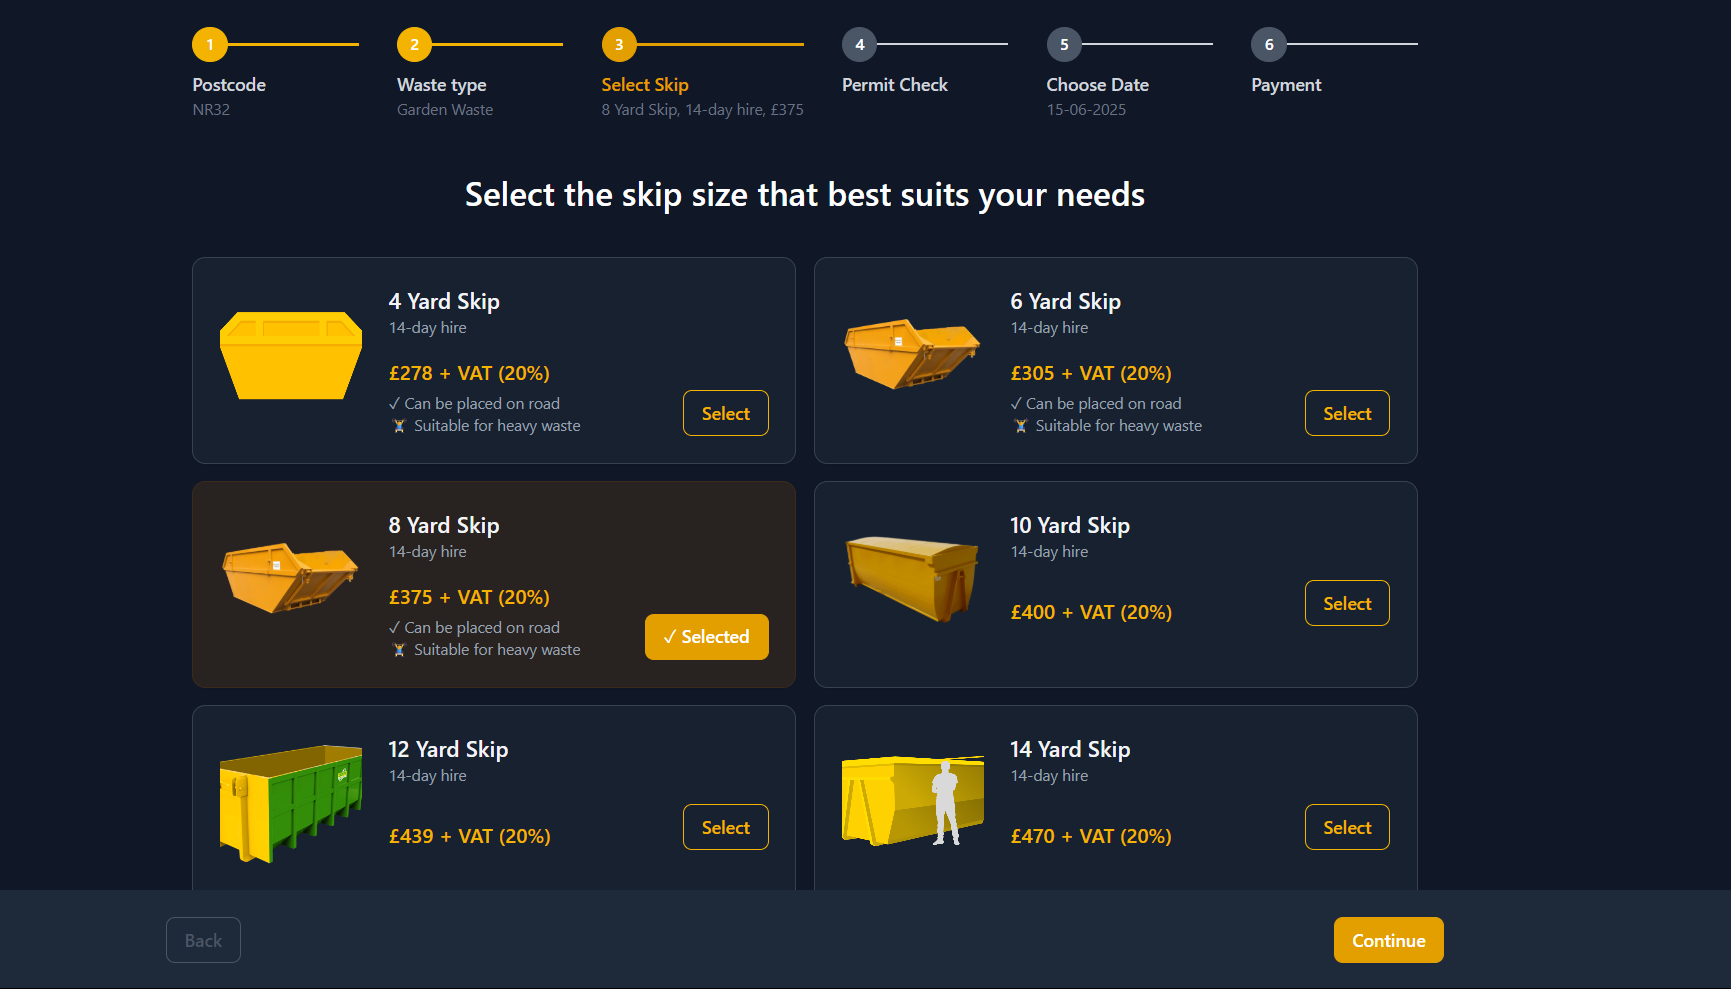
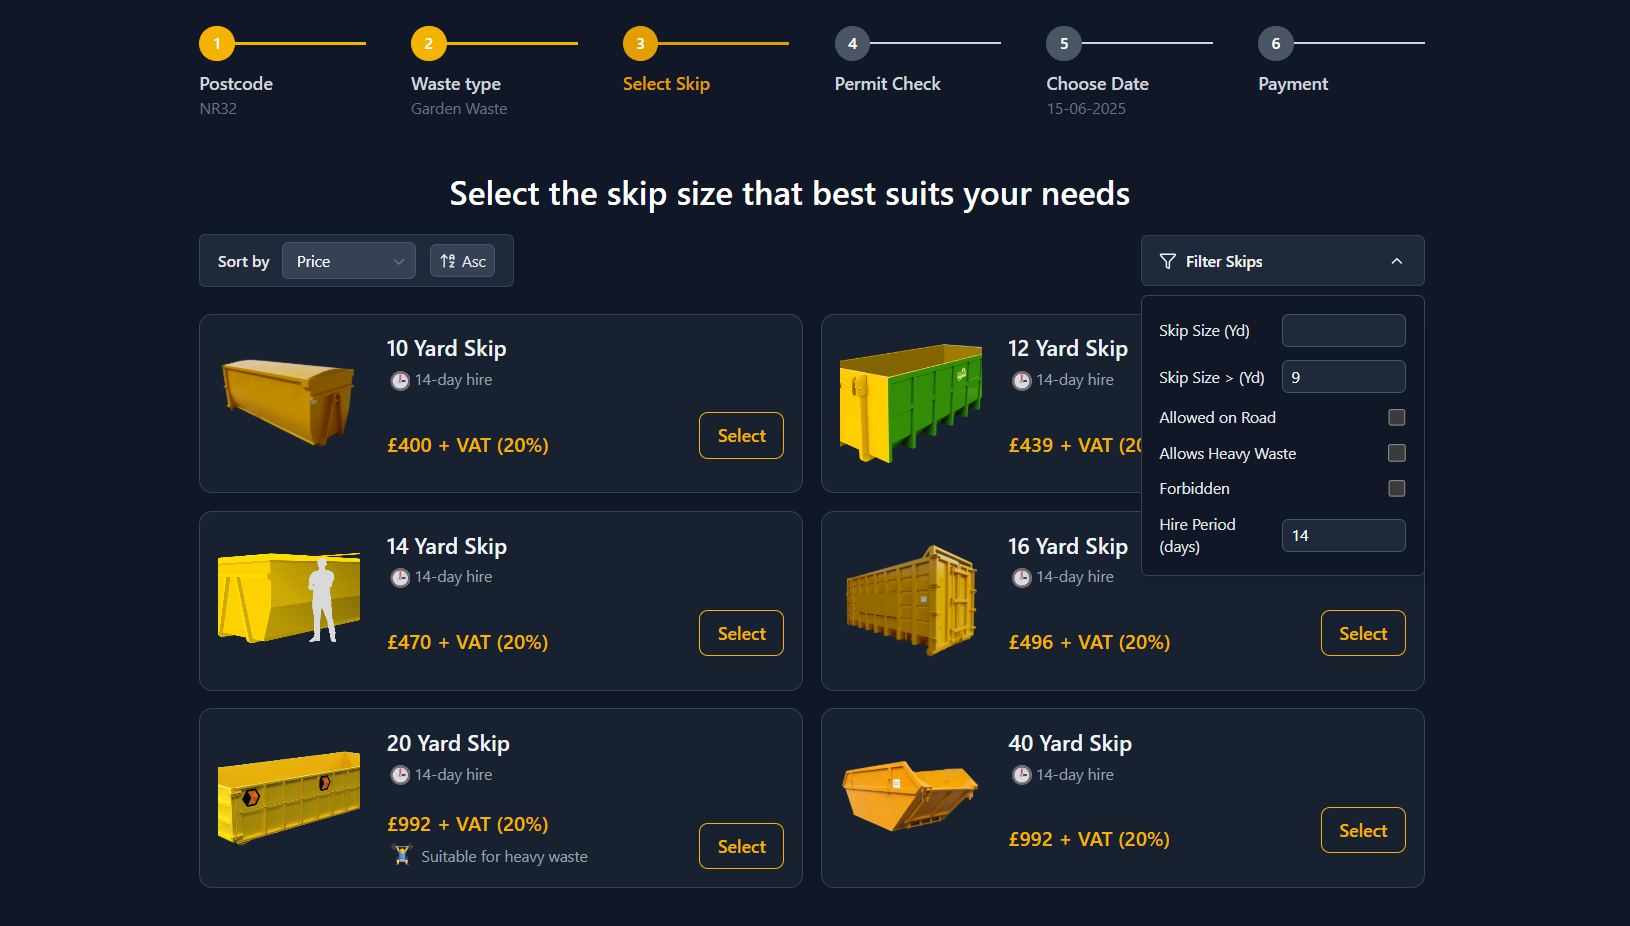
Added: filtering feature

diff --git a/src/components/FilterSkips.jsx b/src/components/FilterSkips.jsx
@@ -1,0 +1,212 @@
+import { useState, useEffect, useRef } from "react";
+import { ChevronDown, ArrowUpAZ, ArrowDownZA, Filter } from "lucide-react";
+
+const filterFields = [
+  { id: "size", label: "Skip Size (Yd)", type: "number" },
+  { id: "size_gt", label: "Skip Size > (Yd)", type: "number" },
+  { id: "allowed_on_road", label: "Allowed on Road", type: "boolean" },
+  { id: "allows_heavy_waste", label: "Allows Heavy Waste", type: "boolean" },
+  { id: "forbidden", label: "Forbidden", type: "boolean" },
+  { id: "hire_period_days", label: "Hire Period (days)", type: "number" },
+];
+
+const sortFields = [
+  { id: "price_before_vat", label: "Price" },
+  { id: "size", label: "Size" },
+  { id: "hire_period_days", label: "Hire Period" },
+];
+
+export default function FilterSkips({
+  onFilterChange,
+  skips,
+  setFilteredSkips,
+}) {
+  const [open, setOpen] = useState(false);
+  const [filters, setFilters] = useState({});
+  const [sortBy, setSortBy] = useState("");
+  const [sortOrder, setSortOrder] = useState("asc");
+  const dropdownRef = useRef(null);
+
+  const toggleBooleanFilter = (id) => {
+    setFilters((prev) => {
+      const newFilters = { ...prev };
+      if (id in newFilters) {
+        delete newFilters[id];
+      } else {
+        newFilters[id] = true;
+      }
+      return newFilters;
+    });
+  };
+
+  const updateFilterValue = (id, value) => {
+    setFilters((prev) => ({
+      ...prev,
+      [id]: value,
+    }));
+  };
+
+  const getFilterSummary = () => {
+    const entries = Object.entries(filters).filter(
+      ([_, v]) => v !== "" && v !== null
+    );
+    if (entries.length === 0) return "";
+    return entries
+      .map(([key, value]) => {
+        if (typeof value === "boolean") return key;
+        return `${key}: ${value}`;
+      })
+      .join(", ");
+  };
+
+  useEffect(() => {
+    const handleClickOutside = (event) => {
+      if (dropdownRef.current && !dropdownRef.current.contains(event.target)) {
+        setOpen(false);
+      }
+    };
+    document.addEventListener("mousedown", handleClickOutside);
+    return () => document.removeEventListener("mousedown", handleClickOutside);
+  }, []);
+
+  useEffect(() => {
+    let filtered = skips.filter((skip) => {
+      return Object.entries(filters).every(([key, value]) => {
+        if (value === "" || value === undefined) return true;
+
+        if (key === "size_gt") return skip["size"] > value;
+        if (typeof value === "boolean") return skip[key] === true;
+
+        return skip[key] === value;
+      });
+    });
+
+    if (sortBy) {
+      filtered = [...filtered].sort((a, b) => {
+        if (sortOrder === "asc") return a[sortBy] - b[sortBy];
+        return b[sortBy] - a[sortBy];
+      });
+    }
+
+    setFilteredSkips(filtered);
+    if (onFilterChange) {
+      onFilterChange(filters);
+    }
+  }, [filters, sortBy, sortOrder, skips]);
+
+  return (
+    <div className="w-full flex justify-between items-center gap-4">
+      {/* SORT */}
+      <div className="flex items-center gap-3 bg-white dark:bg-gray-800 px-2 md:px-4 py-1.5 rounded-md border border-gray-300 dark:border-gray-700 shadow-sm">
+        <label className="text-sm hidden md:block font-semibold text-gray-700 dark:text-gray-200 whitespace-nowrap">
+          Sort by
+        </label>
+
+        <div className="relative">
+          <select
+            value={sortBy}
+            onChange={(e) => setSortBy(e.target.value)}
+            className="appearance-none text-sm pl-3 pr-8 py-1.5 cursor-pointer rounded-md border border-gray-300 dark:border-gray-600 bg-white dark:bg-gray-700 text-gray-900 dark:text-white focus:outline-none"
+          >
+            <option value="" className="block md:hidden">
+              -- Sort by --
+            </option>
+            <option value="" className="hidden md:block">
+              -- Select --
+            </option>
+            {sortFields.map((field) => (
+              <option key={field.id} value={field.id}>
+                {field.label}
+              </option>
+            ))}
+          </select>
+          <ChevronDown className="absolute right-2 top-2.5 h-4 w-4 text-gray-500 pointer-events-none" />
+        </div>
+
+        {sortBy && (
+          <button
+            onClick={() =>
+              setSortOrder((prev) => (prev === "asc" ? "desc" : "asc"))
+            }
+            className="flex items-center gap-1 px-2 py-1 text-sm border cursor-pointer border-gray-300 dark:border-gray-600 rounded-md bg-gray-100 dark:bg-gray-700 text-gray-800 dark:text-gray-200 hover:bg-gray-200 dark:hover:bg-gray-600 transition"
+            title={`Sort ${sortOrder === "asc" ? "Descending" : "Ascending"}`}
+          >
+            {sortOrder === "asc" ? (
+              <>
+                <ArrowUpAZ className="w-4 h-4" />
+                <span>Asc</span>
+              </>
+            ) : (
+              <>
+                <ArrowDownZA className="w-4 h-4" />
+                <span>Desc</span>
+              </>
+            )}
+          </button>
+        )}
+      </div>
+
+      {/* FILTER */}
+      <div
+        ref={dropdownRef}
+        className="relative inline-block w-full md:max-w-64 text-left"
+      >
+        <button
+          onClick={() => setOpen(!open)}
+          className="w-full flex items-center justify-between px-4 py-3 cursor-pointer bg-white dark:bg-gray-800 border border-gray-300 dark:border-gray-700 rounded-md shadow-sm text-sm font-medium text-gray-900 dark:text-gray-100 hover:bg-gray-100 dark:hover:bg-gray-700 transition"
+        >
+          <span className="flex items-center gap-2 truncate">
+            <Filter className="w-4 h-4" />
+            {"Filter Skips"}
+          </span>
+          <ChevronDown
+            className={`h-4 w-4 ml-2 transition-transform ${
+              open ? "rotate-180" : ""
+            }`}
+          />
+        </button>
+
+        {open && (
+          <div
+            className="absolute z-10 mt-2 min-w-[16rem] max-w-full right-0 bg-white dark:bg-gray-900 border border-gray-300 dark:border-gray-700 rounded-md shadow-lg p-4 space-y-3 text-sm"
+            style={{ transformOrigin: "top right" }}
+          >
+            {filterFields.map((field) => (
+              <div
+                key={field.id}
+                className="flex justify-between items-center gap-3"
+              >
+                <label className="flex-1 text-gray-700 dark:text-gray-200">
+                  {field.label}
+                </label>
+
+                {field.type === "boolean" ? (
+                  <input
+                    type="checkbox"
+                    checked={filters[field.id] === true}
+                    onChange={() => toggleBooleanFilter(field.id)}
+                    className="w-4 h-4 text-primary-600 dark:text-primary-400 accent-primary-500 cursor-pointer"
+                  />
+                ) : (
+                  <input
+                    type={field.type}
+                    value={filters[field.id] || ""}
+                    onChange={(e) =>
+                      updateFilterValue(
+                        field.id,
+                        field.type === "number"
+                          ? parseFloat(e.target.value) || ""
+                          : e.target.value
+                      )
+                    }
+                    className="w-28 px-2 py-1 border border-gray-300 dark:border-gray-600 rounded-md bg-white dark:bg-gray-800 text-gray-900 dark:text-white focus:outline-none"
+                  />
+                )}
+              </div>
+            ))}
+          </div>
+        )}
+      </div>
+    </div>
+  );
+}

diff --git a/src/screens/SelectSkip.jsx b/src/screens/SelectSkip.jsx
@@ -3,10 +3,12 @@ import SkipCard from "../components/SkipCard";
 import Button from "../components/Button";
 import clsx from "clsx";
 import SkipCardSkeleton from "../components/skeletons/SkeletonCard";
+import FilterSkips from "../components/FilterSkips";
 
 export default function SelectSkip({ activeTab, handleTabData }) {
   const [selected, setSelected] = useState(activeTab?.data?.id ?? null);
   const [skips, setSkips] = useState([]);
+  const [filteredSkips, setFilteredSkips] = useState([]);
   const [isLoading, setIsloading] = useState(false);
 
   useEffect(() => {
@@ -29,6 +31,7 @@ export default function SelectSkip({ activeTab, handleTabData }) {
         }
 
         setSkips(data);
+        setFilteredSkips([...data]);
       } catch (error) {
         console.error("Error fetching skips by location:", error);
       } finally {
@@ -41,18 +44,18 @@ export default function SelectSkip({ activeTab, handleTabData }) {
 
   return (
     <>
-      <div className="w-full felx flex-col items-center mb-6">
-        <h1 className="text-3xl font-semibold text-center text-gray-900 dark:text-white mb-4">
+      <div className="w-full flex flex-col space-y-5 justify-between items-center mb-6 md:space-x-10">
+        <h1 className="text-2xl md:text-3xl font-semibold text-center text-gray-900 dark:text-white">
           Select the skip size that best suits your needs
         </h1>
 
-        <p className="text-center"></p>
+        <FilterSkips skips={skips} setFilteredSkips={setFilteredSkips} />
       </div>
 
       {/* ---------- SKIP CARDS START ---------- */}
       <div className="w-full grid grid-cols-1 md:grid-cols-2 gap-4 mx-auto">
         {!isLoading
-          ? skips?.map((skip, index) => (
+          ? filteredSkips?.map((skip, index) => (
               <SkipCard
                 key={index}
                 index={index}

diff --git a/src/components/SkipCard.jsx b/src/components/SkipCard.jsx
@@ -1,6 +1,8 @@
 import clsx from "clsx";
 import Button from "./Button";
 
+import { Timer } from "lucide-react";
+
 import skipImage4YD from "../assets/4-Yd-skip.png";
 import skipImage6YD from "../assets/6-Yd-skip.webp";
 import skipImage8YD from "../assets/8-Yd-skip.png";
@@ -44,7 +46,7 @@ const SkipCard = ({
       )}
     >
       {/* ---------- CARD CONTENT START ---------- */}
-      <div className="p-6 flex flex-row gap-6 items-start">
+      <div className="p-4 flex flex-row gap-6 items-start">
         {/* LEFT: IMAGE */}
         <img
           src={skip?.imageUrl || images[skip.size] || images[1]}
@@ -58,8 +60,9 @@ const SkipCard = ({
             <h2 className="text-xl font-semibold text-gray-800 dark:text-gray-100">
               {skip.size} Yard Skip
             </h2>
-            <p className="text-sm text-gray-500 dark:text-gray-400">
-              {skip.hire_period_days}-day hire
+            <p className="flex items-center text-sm text-gray-500 dark:text-gray-400">
+              <span className="text-lg">🕒</span> {skip.hire_period_days}-day
+              hire
             </p>
           </div>
 
@@ -70,12 +73,12 @@ const SkipCard = ({
               </p>
               {skip.allowed_on_road && (
                 <p className="text-sm text-gray-600 dark:text-gray-400 mt-1">
-                  ✓ Can be placed on road
+                  <span className="text-xl">🚧</span> Can be placed on road
                 </p>
               )}
               {skip.allows_heavy_waste && (
                 <p className="text-sm text-gray-600 dark:text-gray-400">
-                  🏋♂ Suitable for heavy waste
+                  <span className="text-xl">🏋♂</span> Suitable for heavy waste
                 </p>
               )}
               {skip.forbidden && (
